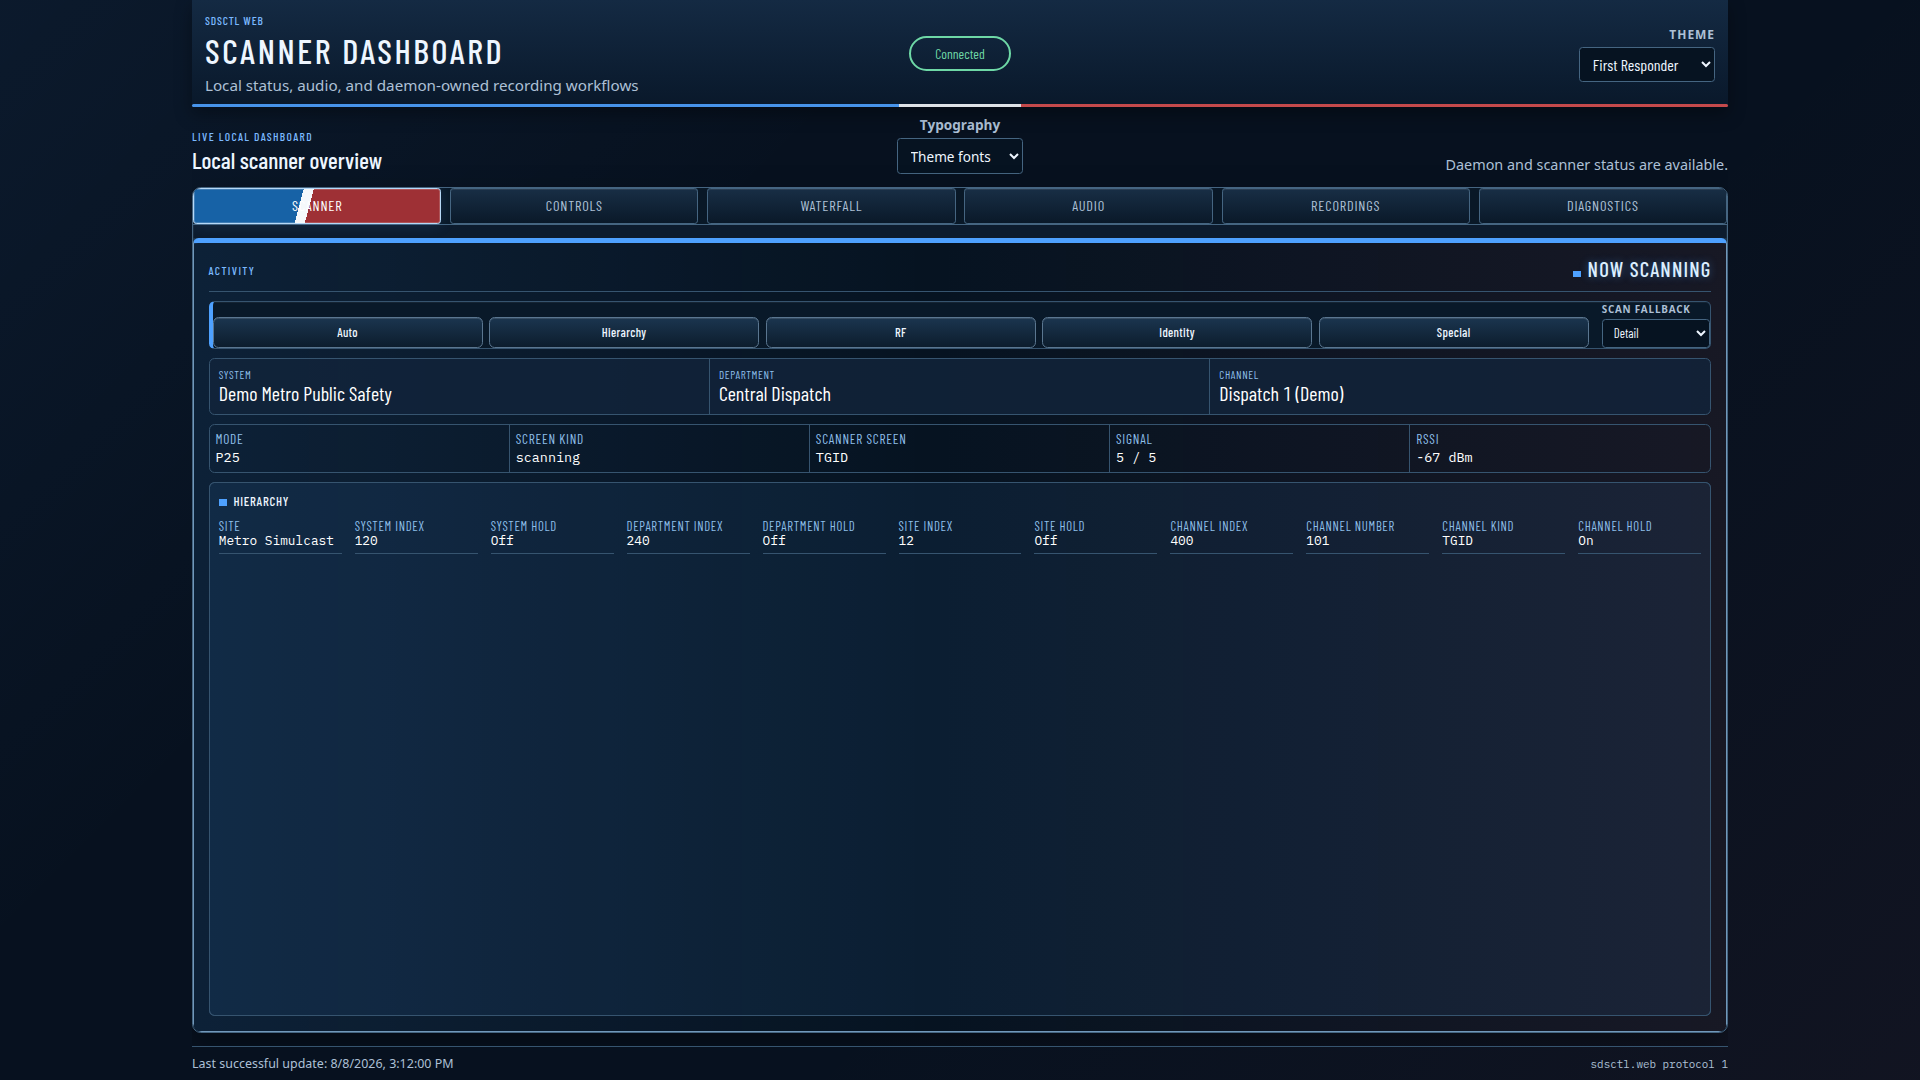
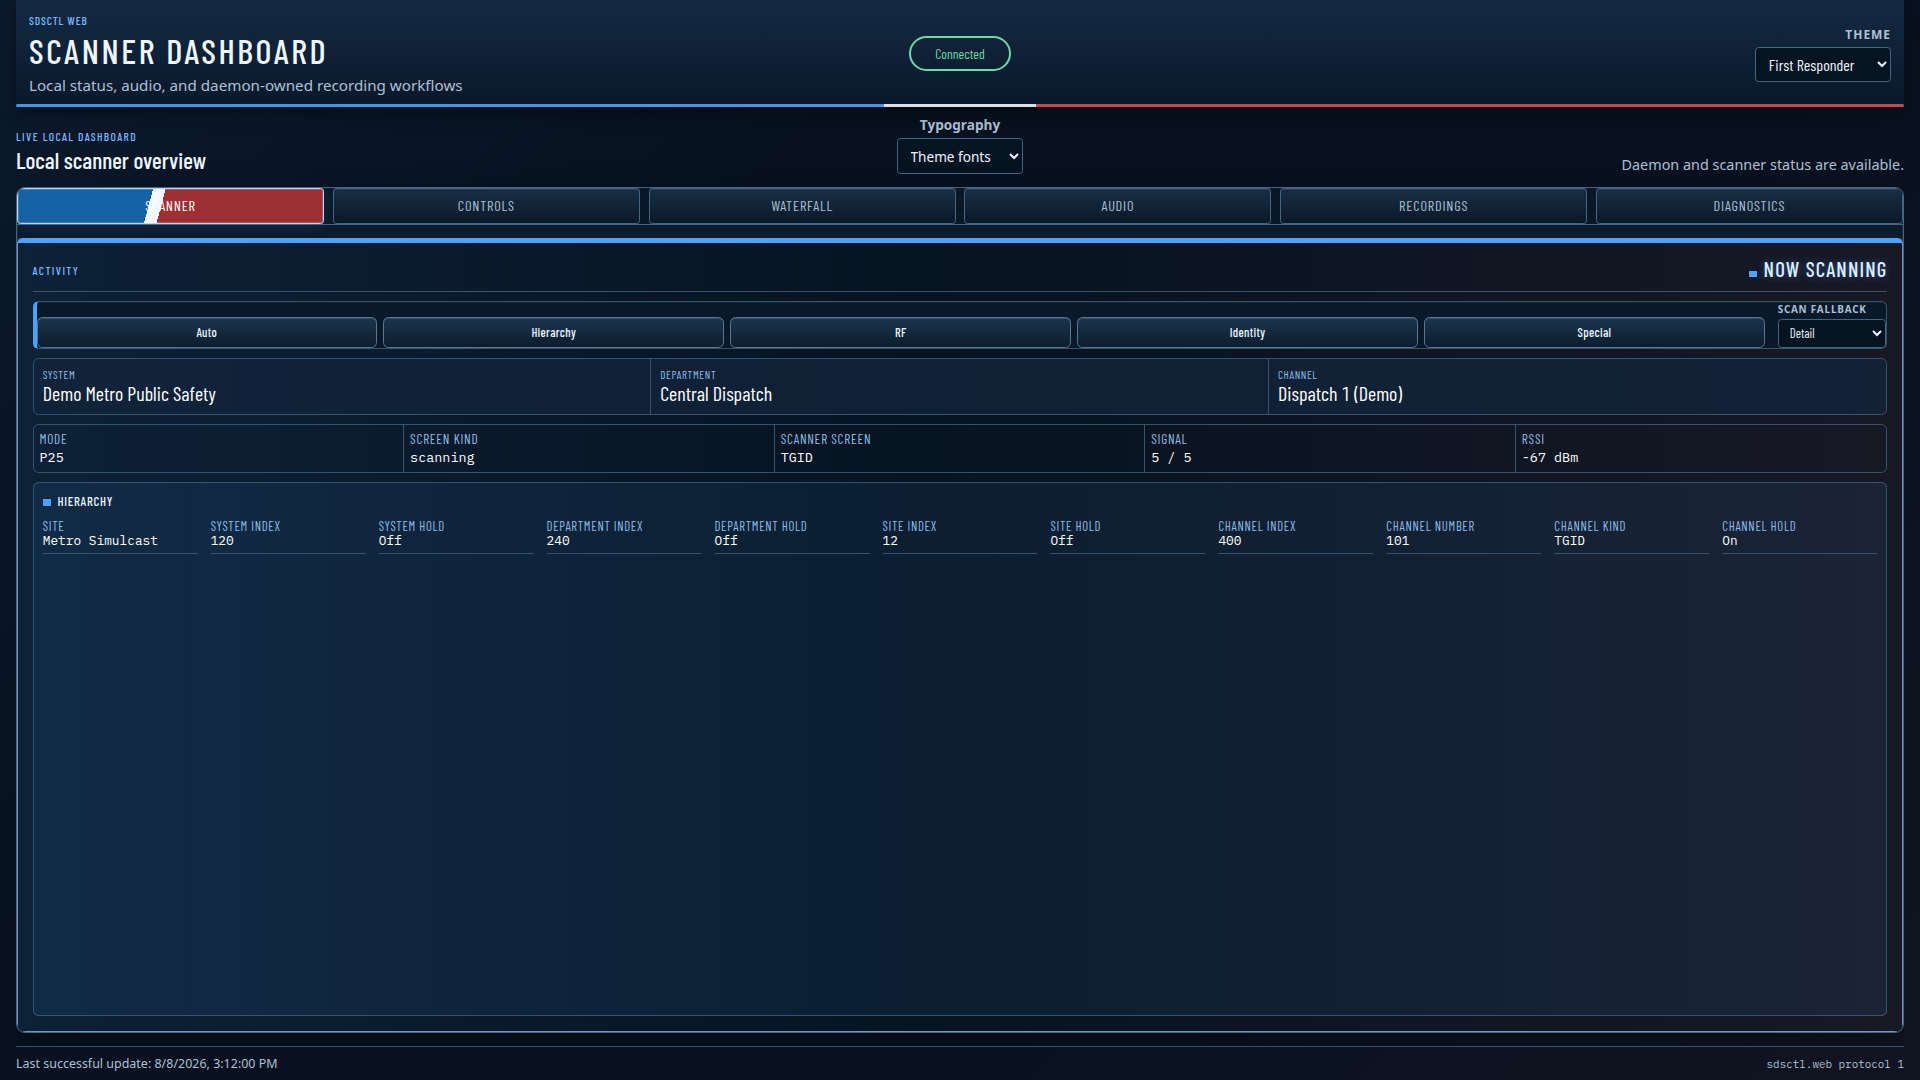
Fix full-HD dashboard shell width

diff --git a/src/sds200/web_assets/dashboard-viewport.css b/src/sds200/web_assets/dashboard-viewport.css
@@ -254,7 +254,7 @@
   }
 
   :root {
-    --content-width: 96rem !important;
+    --content-width: 120rem !important;
     --workspace-gap: clamp(0.35rem, 1.2vmin, 0.9rem) !important;
     --pane-padding: clamp(0.55rem, 1.35vmin, 1.15rem) !important;
   }
@@ -285,7 +285,7 @@
   .site-header,
   .dashboard,
   .site-footer {
-    width: min(calc(100% - clamp(0.75rem, 2.4vw, 2rem)), 96rem) !important;
+    width: min(calc(100% - clamp(0.75rem, 2.4vw, 2rem)), 120rem) !important;
     min-width: 0 !important;
     margin-inline: auto !important;
   }

diff --git a/src/sds200/web_assets/dashboard.css b/src/sds200/web_assets/dashboard.css
@@ -885,7 +885,7 @@ select:focus-visible,
 :root {
   --workspace-gap: clamp(0.35rem, 1.2vmin, 0.9rem);
   --pane-padding: clamp(0.55rem, 1.35vmin, 1.15rem);
-  --content-width: 96rem;
+  --content-width: 120rem;
   --waterfall-background: #07111c;
   --waterfall-grid: #31516a;
   --waterfall-spectrum: #42d7ff;

diff --git a/tests/test_audit_web_dashboard_browser.py b/tests/test_audit_web_dashboard_browser.py
@@ -204,6 +204,9 @@ def test_browser_audit_source_preserves_browser_specific_acceptance_guards() -> 
         "internal Ingress Home Assistant count mismatch",
         "current ${scope} hold state",
         "presentationGeometryFailures",
+        "shellGeometryFailures",
+        "responsive shell target",
+        "120 * rootFontSize",
         "hierarchyFieldAlignmentFailures",
         '["simple", "scanning", "scanning", "Now scanning", "simple", "none"]',
         '["detail", "scanning", "scanning", "Now scanning", "detail", "hierarchy"]',

diff --git a/docs/web-dashboard.md b/docs/web-dashboard.md
@@ -421,7 +421,10 @@ document and active pane fit without horizontal or vertical scrolling at the
 1920x1080 full-HD reference viewports. Information that cannot fit concurrently
 uses the named panes, scanner inspection controls, or recording page controls
 instead of an unannounced scrolling region. Large displays scale the workspace
-cleanly. When user text enlargement or browser zoom crosses the compact
+cleanly. Through the full-HD reference width, the shared shell consumes the
+available viewport with only its responsive edge gutter; above that width, a
+120rem cap preserves readable geometry on ultrawide desktop displays. When user
+text enlargement or browser zoom crosses the compact
 composition's safe boundary, accessibility and content reachability take
 priority and conventional scrolling is deliberately restored.
 
